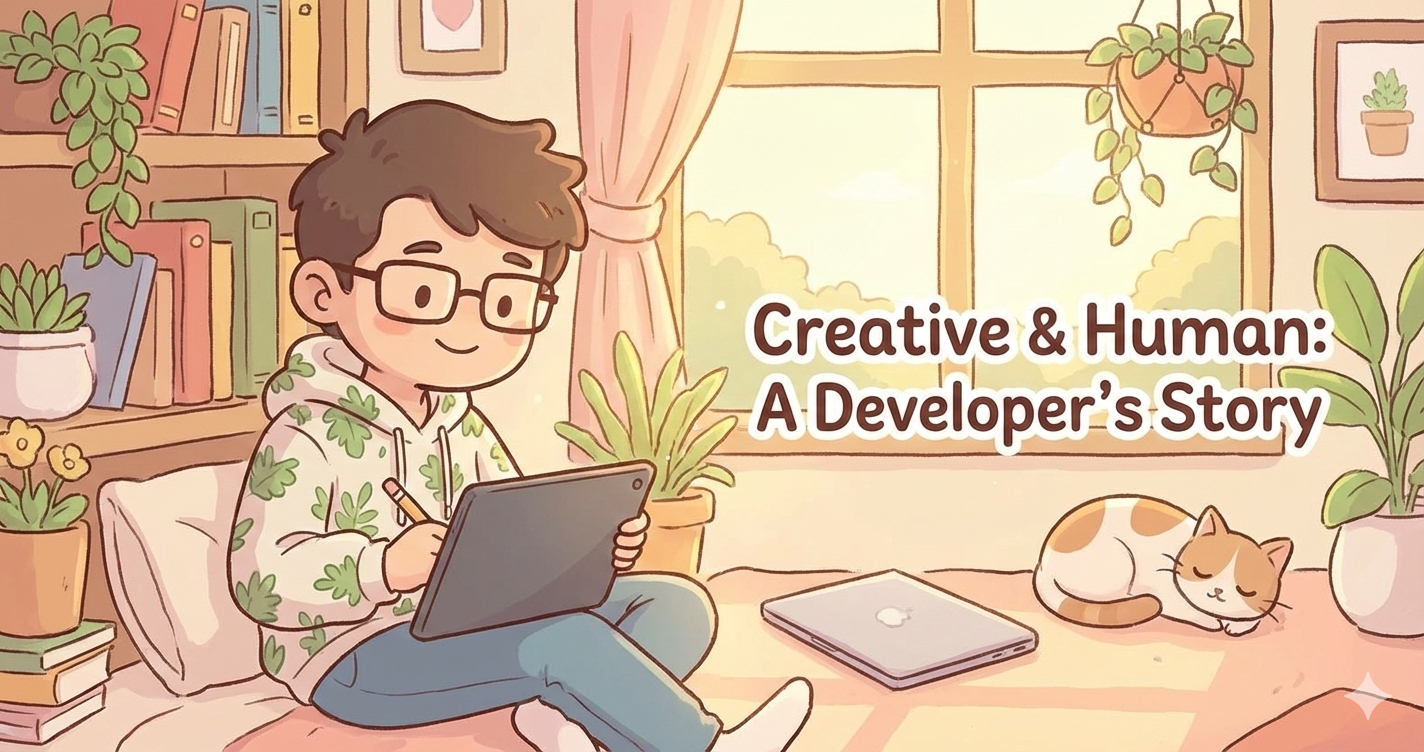
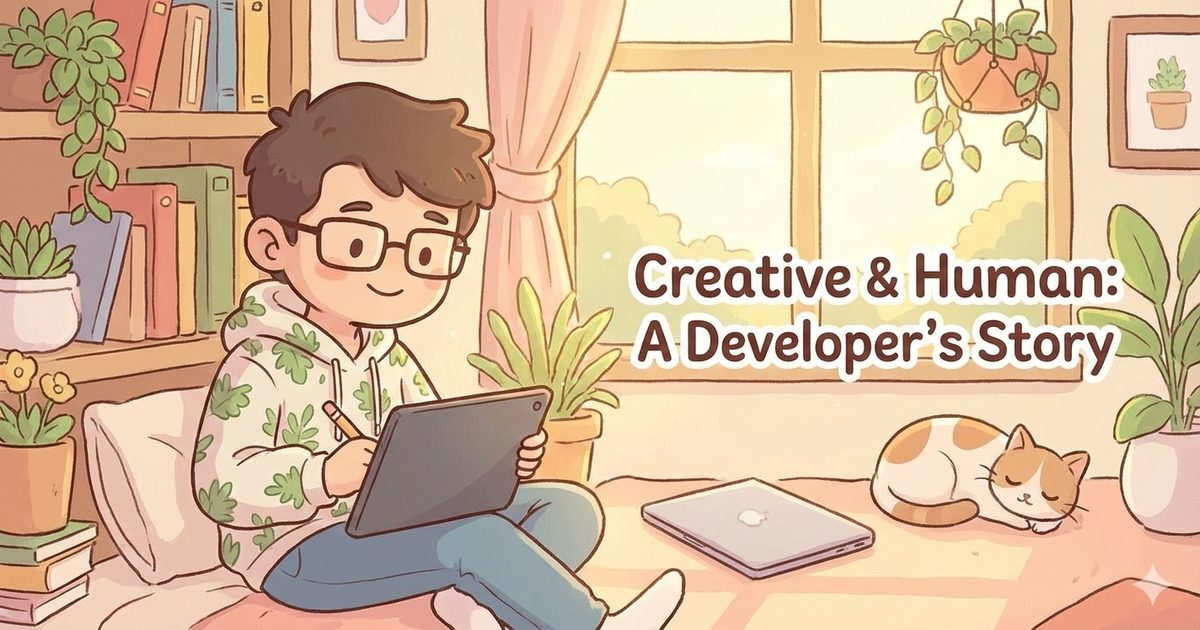
fix(seo): restore og:image on every page
Next merges openGraph shallowly, so each page's openGraph block dropped the
layout's images and shares went out with no preview. Pages now set the image
themselves via lib/og.ts. og-image.jpg resized to the declared 1200x630 and
compressed from 1.6MB to 141KB.

diff --git a/app/[locale]/blog/page.tsx b/app/[locale]/blog/page.tsx
@@ -3,6 +3,7 @@ import { getTranslations } from 'next-intl/server';
 import { notFound } from 'next/navigation';
 import { getPublishedPosts } from '@/lib/posts';
 import PostList from './_components/PostList';
+import { ogImage } from '@/lib/og';
 
 /** 블로그는 한국어 전용. en 로케일에서는 라우트 자체를 노출하지 않는다. */
 const BLOG_LOCALE = 'ko';
@@ -25,6 +26,7 @@ export async function generateMetadata({
       types: { 'application/rss+xml': `${process.env.NEXT_PUBLIC_SITE_URL ?? 'https://thmm.kr'}/rss.xml` },
     },
     openGraph: {
+      images: [ogImage],
       locale: 'ko_KR',
       title: t('title'),
       description: t('description'),
@@ -33,6 +35,7 @@ export async function generateMetadata({
     },
     twitter: {
       card: 'summary_large_image',
+      images: [ogImage.url],
       title: t('title'),
       description: t('description'),
     },

diff --git a/app/[locale]/portfolio/page.tsx b/app/[locale]/portfolio/page.tsx
@@ -2,6 +2,7 @@ import type { Metadata } from 'next';
 import { getLocale, getTranslations } from 'next-intl/server';
 import { Link } from '@/i18n/navigation';
 import { casesByOrganization } from './_components/cases';
+import { ogImage } from '@/lib/og';
 
 type Locale = 'ko' | 'en';
 
@@ -26,6 +27,7 @@ export async function generateMetadata({
       },
     },
     openGraph: {
+      images: [ogImage],
       locale: locale === 'ko' ? 'ko_KR' : 'en_US',
       alternateLocale: locale === 'ko' ? 'en_US' : 'ko_KR',
       title: t('title'),
@@ -35,6 +37,7 @@ export async function generateMetadata({
     },
     twitter: {
       card: 'summary_large_image',
+      images: [ogImage.url],
       title: t('title'),
       description: t('description'),
     },

diff --git a/app/[locale]/portfolio/admin-console/page.tsx b/app/[locale]/portfolio/admin-console/page.tsx
@@ -3,6 +3,7 @@ import { getTranslations } from 'next-intl/server';
 import { hasLocale } from 'next-intl';
 import { notFound } from 'next/navigation';
 import { routing } from '@/i18n/routing';
+import { ogImage } from '@/lib/og';
 
 export async function generateMetadata({
   params,
@@ -25,6 +26,7 @@ export async function generateMetadata({
       },
     },
     openGraph: {
+      images: [ogImage],
       locale: locale === 'ko' ? 'ko_KR' : 'en_US',
       alternateLocale: locale === 'ko' ? 'en_US' : 'ko_KR',
       title: t('title'),
@@ -34,6 +36,7 @@ export async function generateMetadata({
     },
     twitter: {
       card: 'summary_large_image',
+      images: [ogImage.url],
       title: t('title'),
       description: t('description'),
     },

diff --git a/app/[locale]/portfolio/bdb-grid/page.tsx b/app/[locale]/portfolio/bdb-grid/page.tsx
@@ -3,6 +3,7 @@ import { getTranslations } from 'next-intl/server';
 import { hasLocale } from 'next-intl';
 import { notFound } from 'next/navigation';
 import { routing } from '@/i18n/routing';
+import { ogImage } from '@/lib/og';
 
 export async function generateMetadata({
   params,
@@ -25,6 +26,7 @@ export async function generateMetadata({
       },
     },
     openGraph: {
+      images: [ogImage],
       locale: locale === 'ko' ? 'ko_KR' : 'en_US',
       alternateLocale: locale === 'ko' ? 'en_US' : 'ko_KR',
       title: t('title'),
@@ -34,6 +36,7 @@ export async function generateMetadata({
     },
     twitter: {
       card: 'summary_large_image',
+      images: [ogImage.url],
       title: t('title'),
       description: t('description'),
     },

diff --git a/app/[locale]/portfolio/cicd/page.tsx b/app/[locale]/portfolio/cicd/page.tsx
@@ -3,6 +3,7 @@ import { getTranslations } from 'next-intl/server';
 import { hasLocale } from 'next-intl';
 import { notFound } from 'next/navigation';
 import { routing } from '@/i18n/routing';
+import { ogImage } from '@/lib/og';
 
 export async function generateMetadata({
   params,
@@ -25,6 +26,7 @@ export async function generateMetadata({
       },
     },
     openGraph: {
+      images: [ogImage],
       locale: locale === 'ko' ? 'ko_KR' : 'en_US',
       alternateLocale: locale === 'ko' ? 'en_US' : 'ko_KR',
       title: t('title'),
@@ -34,6 +36,7 @@ export async function generateMetadata({
     },
     twitter: {
       card: 'summary_large_image',
+      images: [ogImage.url],
       title: t('title'),
       description: t('description'),
     },

diff --git a/app/[locale]/portfolio/grandbaie/page.tsx b/app/[locale]/portfolio/grandbaie/page.tsx
@@ -3,6 +3,7 @@ import { getTranslations } from 'next-intl/server';
 import { hasLocale } from 'next-intl';
 import { notFound } from 'next/navigation';
 import { routing } from '@/i18n/routing';
+import { ogImage } from '@/lib/og';
 
 export async function generateMetadata({
   params,
@@ -25,6 +26,7 @@ export async function generateMetadata({
       },
     },
     openGraph: {
+      images: [ogImage],
       locale: locale === 'ko' ? 'ko_KR' : 'en_US',
       alternateLocale: locale === 'ko' ? 'en_US' : 'ko_KR',
       title: t('title'),
@@ -34,6 +36,7 @@ export async function generateMetadata({
     },
     twitter: {
       card: 'summary_large_image',
+      images: [ogImage.url],
       title: t('title'),
       description: t('description'),
     },

diff --git a/app/[locale]/portfolio/log-viewer/page.tsx b/app/[locale]/portfolio/log-viewer/page.tsx
@@ -3,6 +3,7 @@ import { getTranslations } from 'next-intl/server';
 import { hasLocale } from 'next-intl';
 import { notFound } from 'next/navigation';
 import { routing } from '@/i18n/routing';
+import { ogImage } from '@/lib/og';
 
 export async function generateMetadata({
   params,
@@ -25,6 +26,7 @@ export async function generateMetadata({
       },
     },
     openGraph: {
+      images: [ogImage],
       locale: locale === 'ko' ? 'ko_KR' : 'en_US',
       alternateLocale: locale === 'ko' ? 'en_US' : 'ko_KR',
       title: t('title'),
@@ -34,6 +36,7 @@ export async function generateMetadata({
     },
     twitter: {
       card: 'summary_large_image',
+      images: [ogImage.url],
       title: t('title'),
       description: t('description'),
     },

diff --git a/app/[locale]/portfolio/ohmybaby/page.tsx b/app/[locale]/portfolio/ohmybaby/page.tsx
@@ -3,6 +3,7 @@ import { getTranslations } from 'next-intl/server';
 import { hasLocale } from 'next-intl';
 import { notFound } from 'next/navigation';
 import { routing } from '@/i18n/routing';
+import { ogImage } from '@/lib/og';
 
 export async function generateMetadata({
   params,
@@ -25,6 +26,7 @@ export async function generateMetadata({
       },
     },
     openGraph: {
+      images: [ogImage],
       locale: locale === 'ko' ? 'ko_KR' : 'en_US',
       alternateLocale: locale === 'ko' ? 'en_US' : 'ko_KR',
       title: t('title'),
@@ -34,6 +36,7 @@ export async function generateMetadata({
     },
     twitter: {
       card: 'summary_large_image',
+      images: [ogImage.url],
       title: t('title'),
       description: t('description'),
     },

diff --git a/app/[locale]/portfolio/redis-session/page.tsx b/app/[locale]/portfolio/redis-session/page.tsx
@@ -3,6 +3,7 @@ import { getTranslations } from 'next-intl/server';
 import { hasLocale } from 'next-intl';
 import { notFound } from 'next/navigation';
 import { routing } from '@/i18n/routing';
+import { ogImage } from '@/lib/og';
 
 export async function generateMetadata({
   params,
@@ -25,6 +26,7 @@ export async function generateMetadata({
       },
     },
     openGraph: {
+      images: [ogImage],
       locale: locale === 'ko' ? 'ko_KR' : 'en_US',
       alternateLocale: locale === 'ko' ? 'en_US' : 'ko_KR',
       title: t('title'),
@@ -34,6 +36,7 @@ export async function generateMetadata({
     },
     twitter: {
       card: 'summary_large_image',
+      images: [ogImage.url],
       title: t('title'),
       description: t('description'),
     },

diff --git a/app/[locale]/portfolio/sso-provider/page.tsx b/app/[locale]/portfolio/sso-provider/page.tsx
@@ -3,6 +3,7 @@ import { getTranslations } from 'next-intl/server';
 import { hasLocale } from 'next-intl';
 import { notFound } from 'next/navigation';
 import { routing } from '@/i18n/routing';
+import { ogImage } from '@/lib/og';
 
 export async function generateMetadata({
   params,
@@ -25,6 +26,7 @@ export async function generateMetadata({
       },
     },
     openGraph: {
+      images: [ogImage],
       locale: locale === 'ko' ? 'ko_KR' : 'en_US',
       alternateLocale: locale === 'ko' ? 'en_US' : 'ko_KR',
       title: t('title'),
@@ -34,6 +36,7 @@ export async function generateMetadata({
     },
     twitter: {
       card: 'summary_large_image',
+      images: [ogImage.url],
       title: t('title'),
       description: t('description'),
     },

diff --git a/app/[locale]/portfolio/techtrade-migration/page.tsx b/app/[locale]/portfolio/techtrade-migration/page.tsx
@@ -3,6 +3,7 @@ import { getTranslations } from 'next-intl/server';
 import { hasLocale } from 'next-intl';
 import { notFound } from 'next/navigation';
 import { routing } from '@/i18n/routing';
+import { ogImage } from '@/lib/og';
 
 export async function generateMetadata({
   params,
@@ -25,6 +26,7 @@ export async function generateMetadata({
       },
     },
     openGraph: {
+      images: [ogImage],
       locale: locale === 'ko' ? 'ko_KR' : 'en_US',
       alternateLocale: locale === 'ko' ? 'en_US' : 'ko_KR',
       title: t('title'),
@@ -34,6 +36,7 @@ export async function generateMetadata({
     },
     twitter: {
       card: 'summary_large_image',
+      images: [ogImage.url],
       title: t('title'),
       description: t('description'),
     },

diff --git a/app/[locale]/portfolio/tls-upgrade/page.tsx b/app/[locale]/portfolio/tls-upgrade/page.tsx
@@ -3,6 +3,7 @@ import { getTranslations } from 'next-intl/server';
 import { hasLocale } from 'next-intl';
 import { notFound } from 'next/navigation';
 import { routing } from '@/i18n/routing';
+import { ogImage } from '@/lib/og';
 
 export async function generateMetadata({
   params,
@@ -25,6 +26,7 @@ export async function generateMetadata({
       },
     },
     openGraph: {
+      images: [ogImage],
       locale: locale === 'ko' ? 'ko_KR' : 'en_US',
       alternateLocale: locale === 'ko' ? 'en_US' : 'ko_KR',
       title: t('title'),
@@ -34,6 +36,7 @@ export async function generateMetadata({
     },
     twitter: {
       card: 'summary_large_image',
+      images: [ogImage.url],
       title: t('title'),
       description: t('description'),
     },
